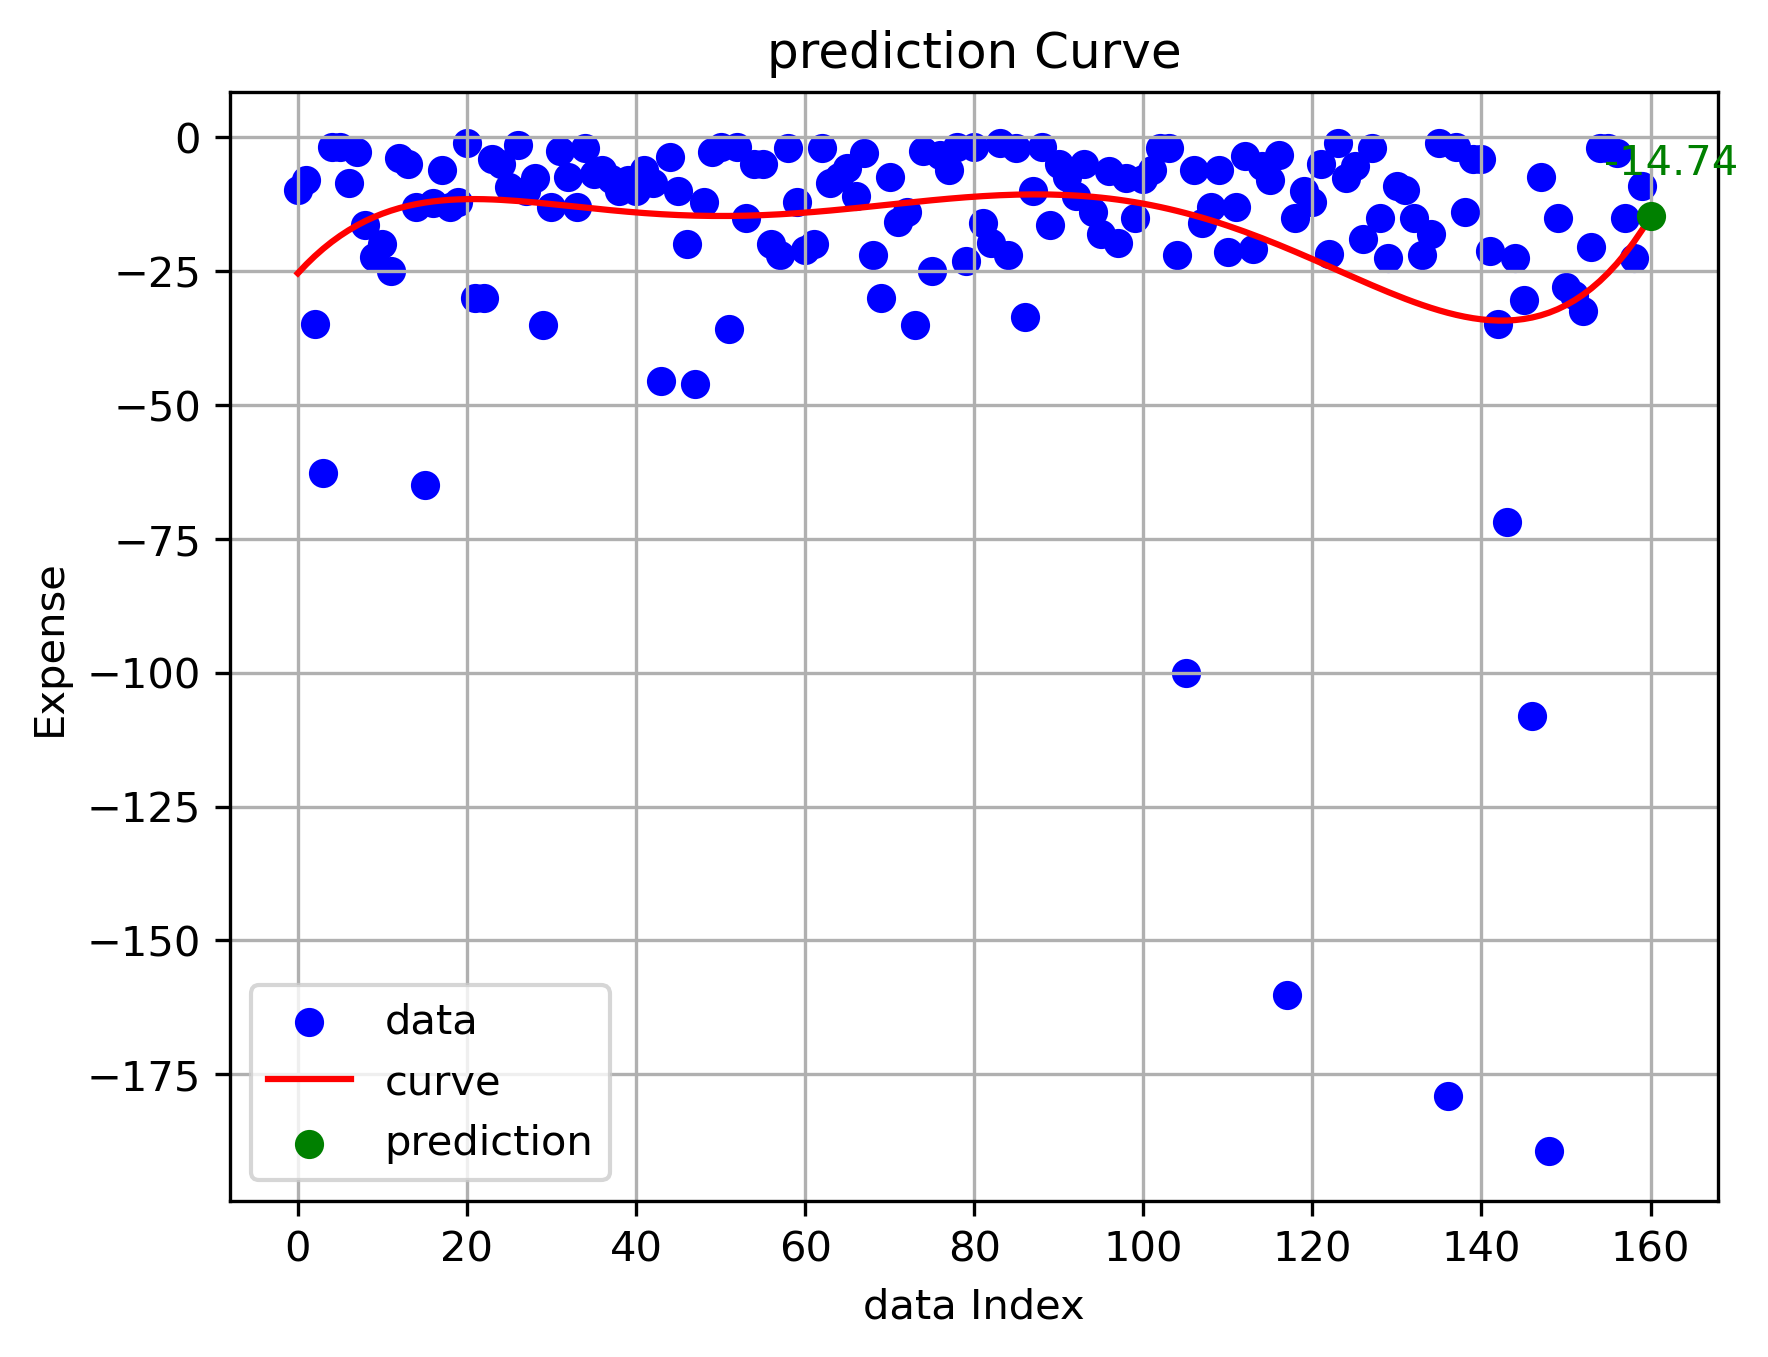
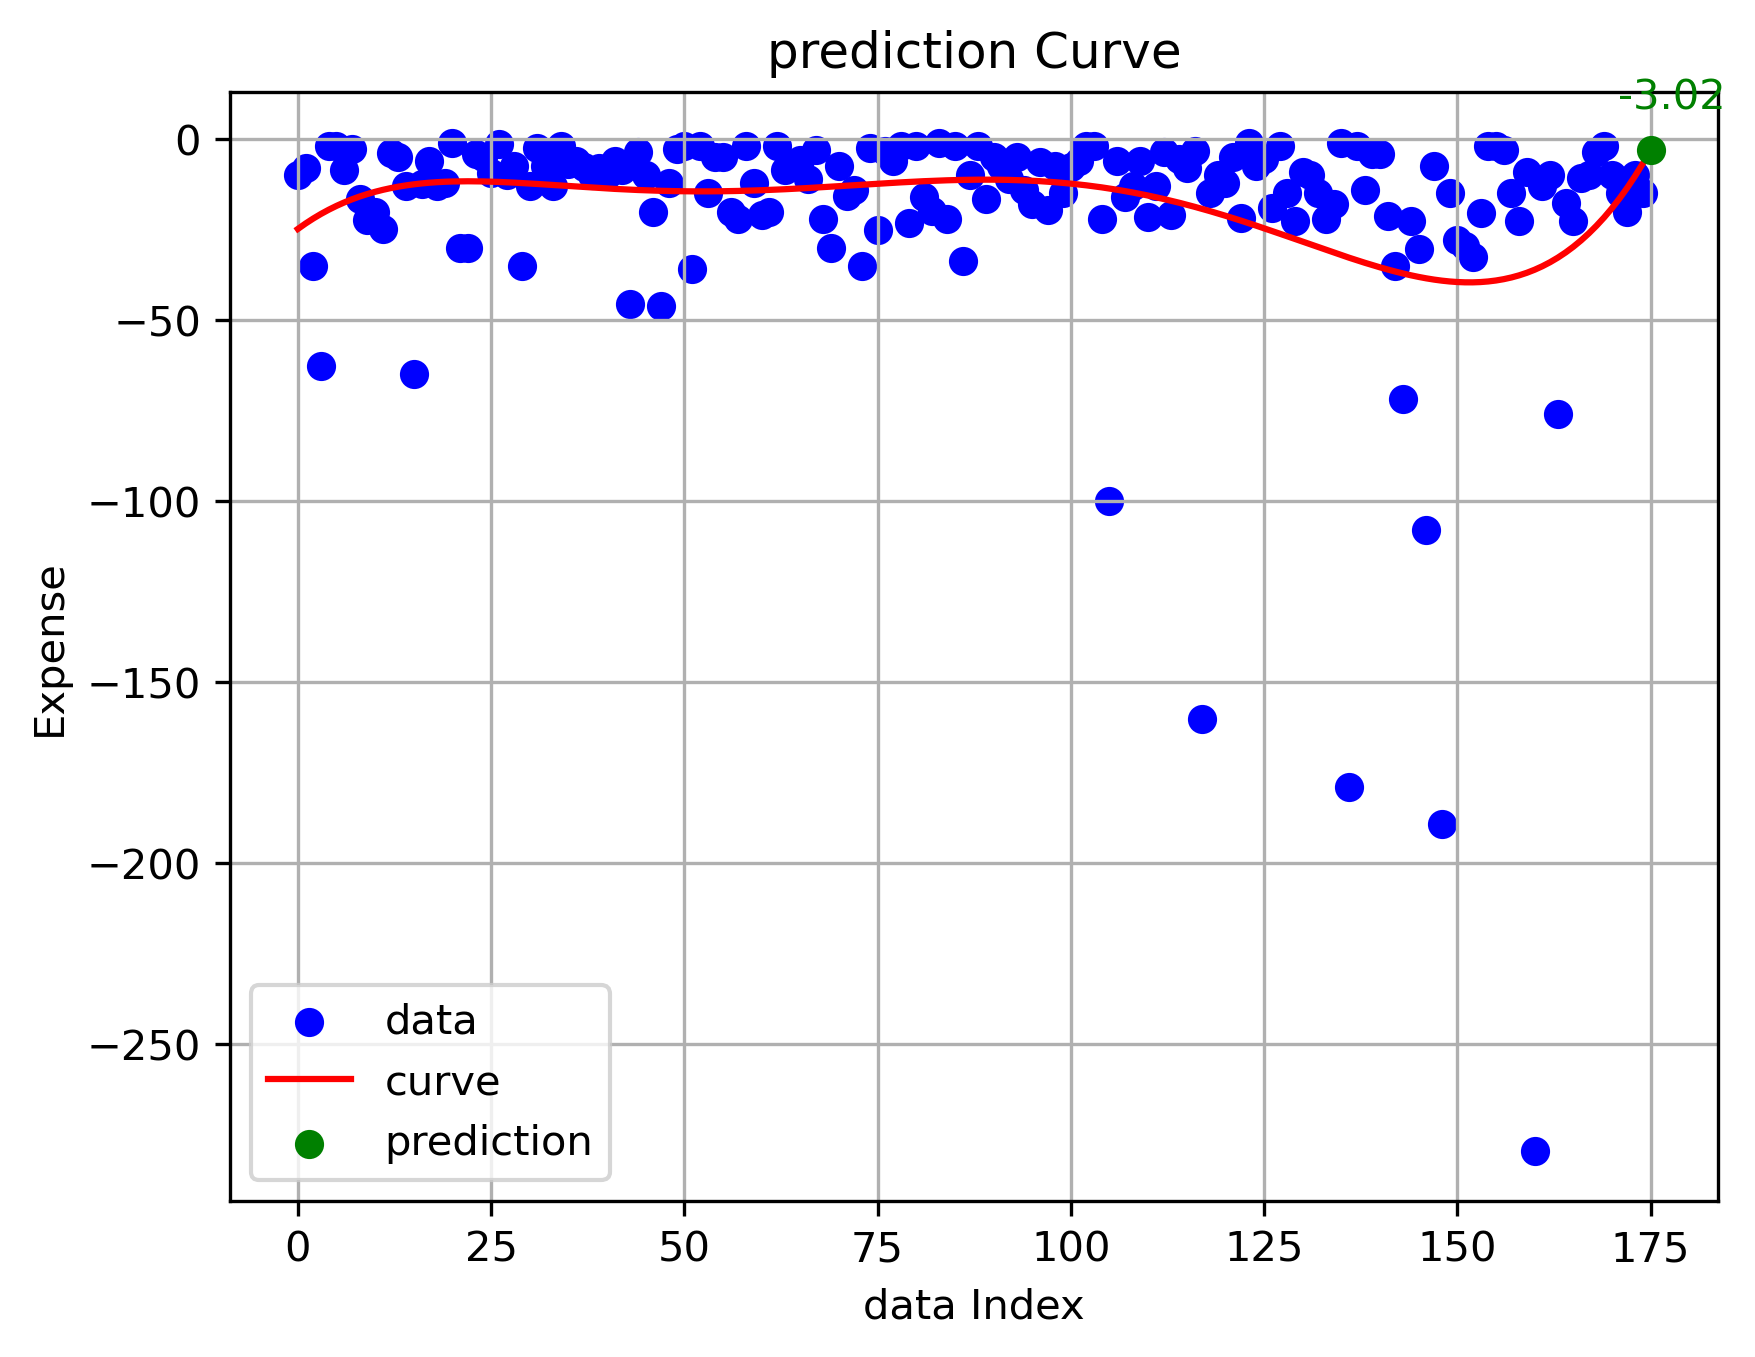
data update 12.8

diff --git a/ExpenseAnalysis/model_predictions.md b/ExpenseAnalysis/model_predictions.md
@@ -4,12 +4,12 @@
 ## 预测值列表
 | 序号 | 预测值 |
 | -------- | ----------------------- |
-| 1    | -14.74499              |
-| 2    | -23.37068              |
-| 3    | -12.82820              |
-| 4    | -14.88203              |
+| 1    | -3.02469              |
+| 2    | -32.08997              |
+| 3    | -13.79000              |
+| 4    | -14.70556              |
     
 ## 统计分析
-- **均值**: -16.46
-- **总体方差**: 16.59
-- **样本方差**: 22.13
+- **均值**: -15.90
+- **总体方差**: 108.44
+- **样本方差**: 144.59

diff --git a/Avg&Var/result.md b/Avg&Var/result.md
@@ -2,8 +2,8 @@
 
 ## 金额（可执行）数据分析
 
-- 平均值: -79.72558823529413
-- 方差: 6827.324534491979
+- 平均值: -76.85394736842106
+- 方差: 6273.754586699858
 
 ## 日期出现次数统计
 
@@ -39,3 +39,8 @@
 | 2024-12-01 |          2 |
 | 2024-12-02 |          7 |
 | 2024-12-03 |          2 |
+| 2024-12-04 |          1 |
+| 2024-12-05 |          3 |
+| 2024-12-06 |          1 |
+| 2024-12-07 |          1 |
+| 2024-12-08 |          1 |
